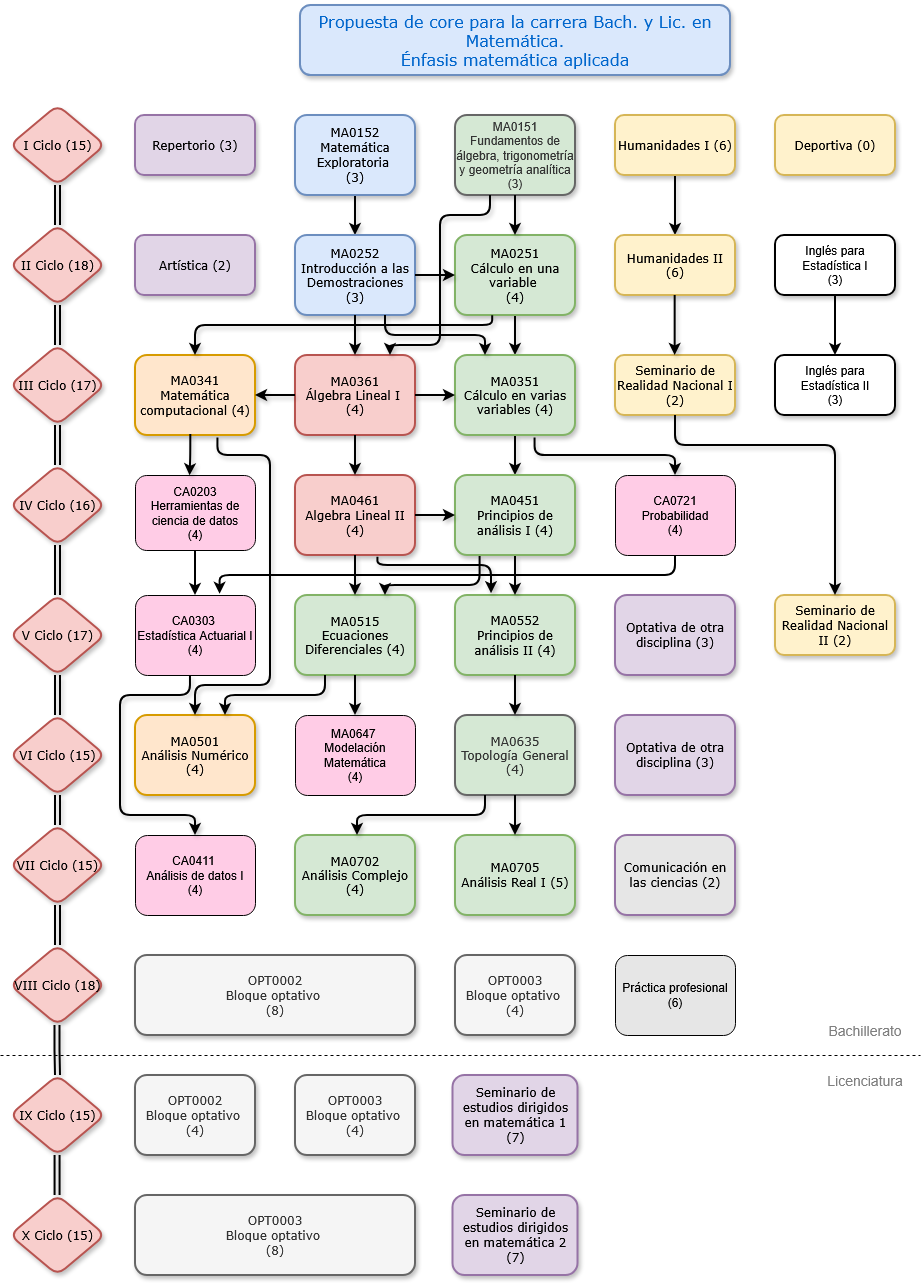
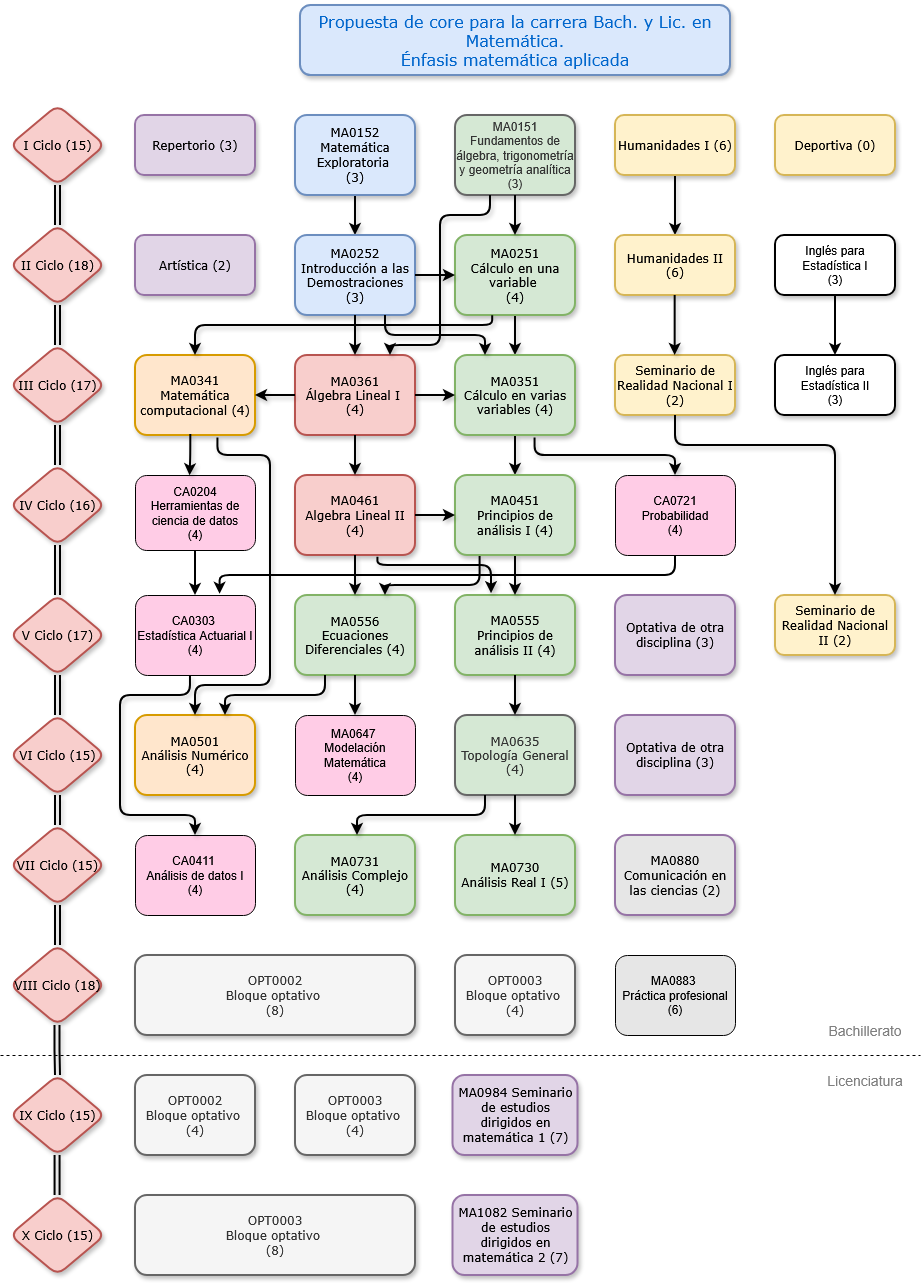
Imágenes de malla actualizadas

diff --git a/scripts/import_cursos_tn_ga.py b/scripts/import_cursos_tn_ga.py
@@ -23,19 +23,19 @@ COURSES = (
     },
     {
         "marker": r"\\subsection\*\{MA-07XX Teoría Analítica de Números\}",
-        "comment": "MA-0809 Teoría analítica de números",
-        "title": r"MA-0809 Teoría analítica de números",
-        "toc_title": r"MA-0809 Teoría analítica de números",
-        "hypertarget": "MA0809",
-        "out": "MA0809-teoria-analitica-numeros-cuerpo.tex",
+        "comment": "MA-0863 Teoría analítica de números",
+        "title": r"MA-0863 Teoría analítica de números",
+        "toc_title": r"MA-0863 Teoría analítica de números",
+        "hypertarget": "MA0863",
+        "out": "MA0863-teoria-analitica-numeros-cuerpo.tex",
     },
     {
         "marker": r"\\subsection\*\{MA-0719 Geometría algebraica\}",
-        "comment": "MA-0719 Geometría algebraica",
-        "title": r"MA-0719 Geometría algebraica",
-        "toc_title": r"MA-0719 Geometría algebraica",
-        "hypertarget": "MA0719",
-        "out": "MA0719-geometria-algebraica-cuerpo.tex",
+        "comment": "MA-0837 Geometría algebraica",
+        "title": r"MA-0837 Geometría algebraica",
+        "toc_title": r"MA-0837 Geometría algebraica",
+        "hypertarget": "MA0837",
+        "out": "MA0837-geometria-algebraica-cuerpo.tex",
     },
 )
 

diff --git a/scripts/generate_topicos_courses.py b/scripts/generate_topicos_courses.py
@@ -32,7 +32,7 @@ COURSES = [
         "0792",
         "topicos-ecuaciones-diferenciales",
         "Tópicos de Ecuaciones Diferenciales",
-        "MA-0515 Ecuaciones Diferenciales",
+        "MA-0556 Ecuaciones Diferenciales",
         "Ecuaciones diferenciales",
         "las ecuaciones diferenciales",
         "diferenciales",
@@ -50,7 +50,7 @@ COURSES = [
         "0794",
         "topicos-modelacion",
         "Tópicos de Modelación",
-        "MA-0515 Ecuaciones Diferenciales",
+        "MA-0556 Ecuaciones Diferenciales",
         "Modelación matemática",
         "la modelación matemática",
         "de modelación",
@@ -92,7 +92,7 @@ COURSES = [
         "de análisis de datos",
     ),
     (
-        "0799",
+        "0836",
         "topicos-aprendizaje-automatico",
         "Tópicos de Aprendizaje Automático",
         "MA-0501 Análisis Numérico I",

diff --git a/scripts/import_programa_combinatoria.py b/scripts/import_programa_combinatoria.py
@@ -1,5 +1,5 @@
 #!/usr/bin/env python3
-"""Regenerate MA-0525 cuerpo from Documentos/Programa Combinatoria.tex (via maintained cuerpo)."""
+"""Regenerate MA-0526 cuerpo from Documentos/Programa Combinatoria.tex (via maintained cuerpo)."""
 
 from __future__ import annotations
 
@@ -8,7 +8,7 @@ import sys
 from pathlib import Path
 
 ROOT = Path(__file__).resolve().parents[1]
-CUERPO = ROOT / "Cursos" / "MA0525-combinatoria-cuerpo.tex"
+CUERPO = ROOT / "Cursos" / "MA0526-combinatoria-cuerpo.tex"
 SRC = Path(
     r"C:\Users\josea\OneDrive - Universidad de Costa Rica\Revisión curricular\Documentos\Programa Combinatoria.tex"
 )

diff --git a/scripts/patch_html_topicos.py b/scripts/patch_html_topicos.py
@@ -16,7 +16,7 @@ COURSES = [
     ("MA-0796 Tópicos de Álgebra", "MA0796-topicos-algebra.pdf", "topicos-algebra"),
     ("MA-0797 Tópicos de Matemática discreta", "MA0797-topicos-matematica-discreta.pdf", "topicos-matematica-discreta"),
     ("MA-0798 Tópicos de Análisis de datos", "MA0798-topicos-analisis-datos.pdf", "topicos-analisis-datos"),
-    ("MA-0799 Tópicos de Aprendizaje automático", "MA0799-topicos-aprendizaje-automatico.pdf", "topicos-aprendizaje-automatico"),
+    ("MA-0836 Tópicos de Aprendizaje automático", "MA0836-topicos-aprendizaje-automatico.pdf", "topicos-aprendizaje-automatico"),
 ]
 
 

diff --git a/scripts/apply_ma_sigla_cycle_rule.py b/scripts/apply_ma_sigla_cycle_rule.py
@@ -19,8 +19,8 @@ RENAME_CHAIN: list[tuple[str, str]] = [
     ("MA-0782", "MA-0982"),
     ("MA-0784", "MA-0984"),
     ("MA-0781", "MA-0881"),  # práctica pura / aplicada antigua 0781 → ver sync_siglas para aplicada→0883
-    ("MA-0609", "MA-0809"),
-    ("MA-0709", "MA-0719"),
+    ("MA-0609", "MA-0863"),
+    ("MA-0709", "MA-0837"),
 ]
 
 TEXT_GLOBS = ("*.tex", "*.json", "*.html", "*.py", "*.md", "*.bcf", "*.xml")

diff --git a/scripts/generate_cursos_perfil_md.py b/scripts/generate_cursos_perfil_md.py
@@ -26,8 +26,8 @@ CUROS = ROOT / "Cursos"
 # Códigos de la malla aplicada que comparten programa con otro curso.
 SIGLA_ALIASES: dict[str, str] = {
     "MA-0261": "MA-0361",
-    "MA-0615": "MA-0515",
-    "MA-0625": "MA-0705",
+    "MA-0615": "MA-0556",
+    "MA-0625": "MA-0730",
 }
 
 
